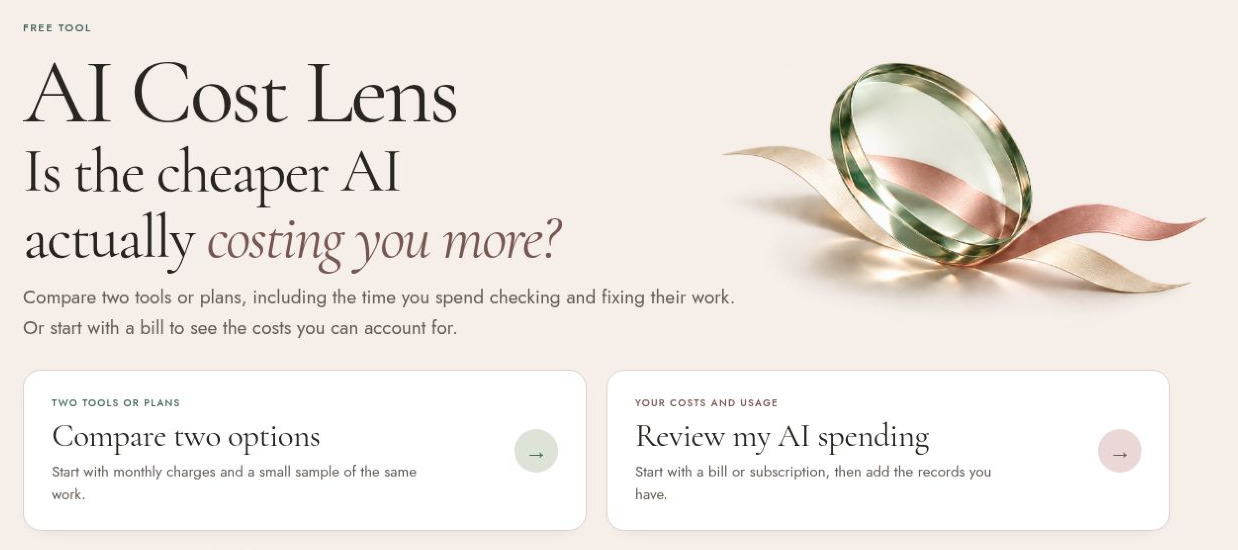
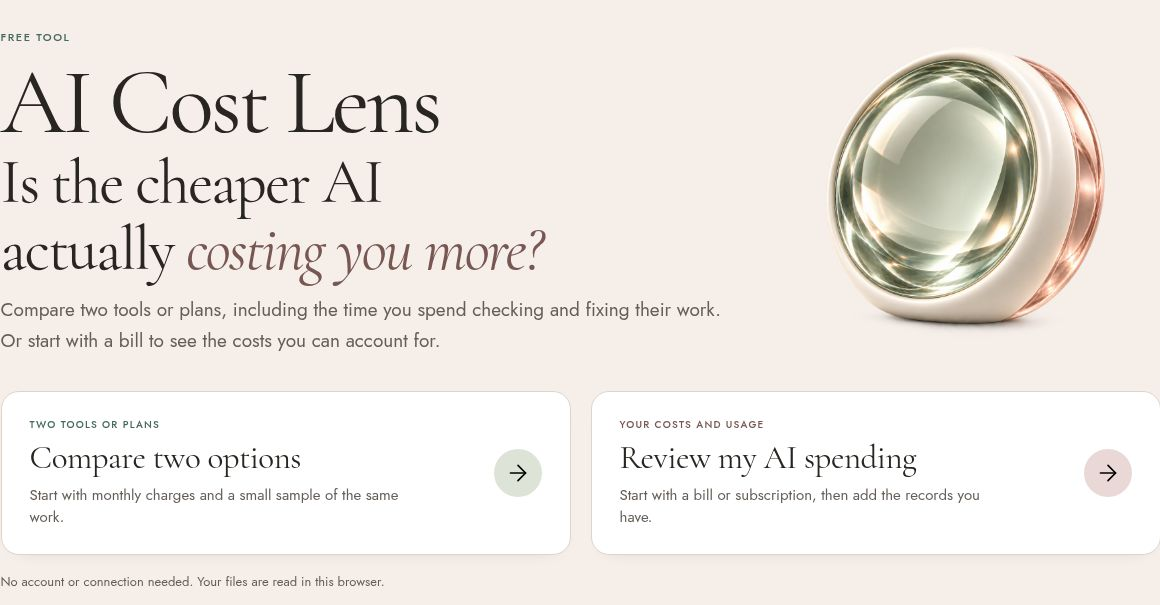
Refresh tool screenshots across the website
Cloud Cost Guard and Software Renewal Tracker previews now show the current example interfaces on the homepage, tools directory and walkthroughs. The shared Lens welcome capture uses the current glass lens artwork.

Image dimensions and Renewal’s example label match the new captures. Guard’s guide uses the same report image as its other placements.

Validation: Astro production build and all 112 existing tests pass. Reviewed desktop, tablet and phone layouts.

diff --git a/src/data/toolDirectory.ts b/src/data/toolDirectory.ts
@@ -47,7 +47,7 @@ export const directoryTools: DirectoryTool[] = [
     destination: 'ai_cost_lens', source: 'work_flagship', tone: 'sage',
     image: '/images/ai-cost-lens-welcome-preview.jpg',
     imageAlt: 'AI Cost Lens welcome screen with a glass lens illustration and two choices: Compare two options or Review my AI spending',
-    imageWidth: 1238, imageHeight: 550, imageLabel: 'Start here',
+    imageWidth: 1160, imageHeight: 605, imageLabel: 'Start here',
     companion: { label: 'Walk through an example', href: '/insights/using-ai-cost-lens' },
   },
   {
@@ -59,7 +59,7 @@ export const directoryTools: DirectoryTool[] = [
     destination: 'cloud_cost_guard', source: 'work_decision_tools', tone: 'rose',
     image: '/images/cloud-cost-guard-billing-preview.jpg',
     imageAlt: 'Cloud Cost Guard reviewing an example uploaded bill: $1,310.13 net cost, signed credits, and charges grouped by service',
-    imageWidth: 1232, imageHeight: 541, imageLabel: 'Example billing records',
+    imageWidth: 1216, imageHeight: 608, imageLabel: 'Example billing records',
     companion: { label: 'How to review your own bill', href: '/insights/using-cloud-cost-guard' },
   },
   {
@@ -70,8 +70,8 @@ export const directoryTools: DirectoryTool[] = [
     action: 'Open the renewal tracker', href: '/tools/software-renewal-tracker', external: false,
     destination: 'software_renewal_tracker', source: 'work_decision_tools', tone: 'sand',
     image: '/images/software-renewal-project-desk.jpg',
-    imageAlt: 'Software Renewal Tracker showing the Project desk subscription, charge and renewal date',
-    imageWidth: 1168, imageHeight: 455,
+    imageAlt: 'Software Renewal Tracker showing an example Project desk subscription, charge and renewal date',
+    imageWidth: 1120, imageHeight: 411, imageLabel: 'Example data',
     companion: { label: 'How to use this tracker', href: '/insights/using-the-renewal-tracker' },
   },
   {
